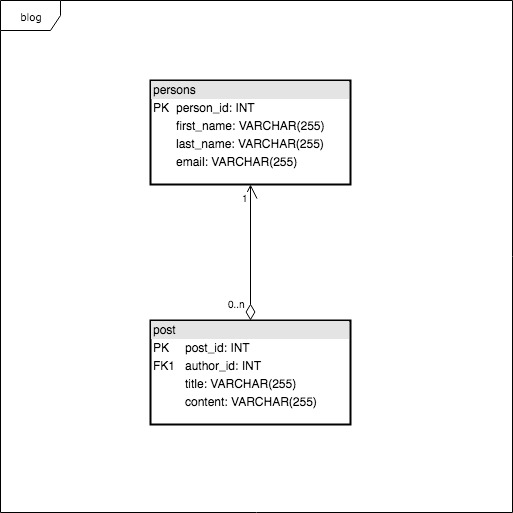
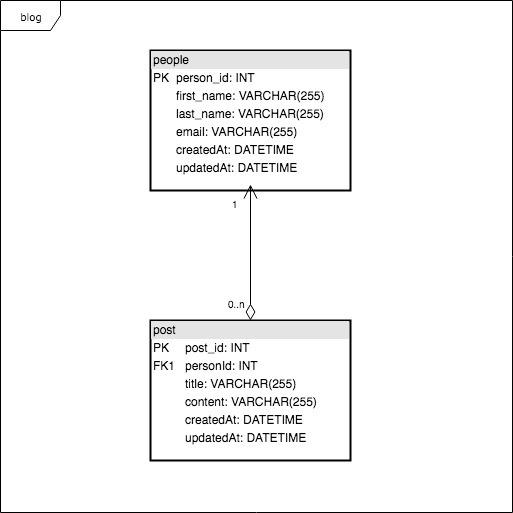
doc: Update blog database UML. db: Rename the persons table to people.

diff --git a/README.md b/README.md
@@ -16,6 +16,6 @@ We will use:
 + ~[Creating a GraphQL server with Node.js and Express.js](https://medium.com/codingthesmartway-com-blog/creating-a-graphql-server-with-node-js-and-express-f6dddc5320e1) Done~
 + [Scaffolding a NodeJS GraphQL API server](https://medium.com/@tomlagier/scaffolding-a-rock-solid-graphql-api-b651c2a36438)
 
-## Refs: GraphQL example wit databases
+## Refs: GraphQL example with databases
 + [Repo: GraphQL with sequelize to integrate with relational database](https://github.com/leebenson/graphql-with-sequelize)
 + [Video: GraphQL with sequelize to integrate with relational database](https://www.youtube.com/watch?v=DNPVqK_woRQ)

diff --git a/sql/README.md b/sql/README.md
@@ -78,10 +78,10 @@ IGNORE 1 ROWS;
 
 ## Blog Database Queries
 
-Query to create the `persons` table:
+Query to create the `people` table:
 
 ```sql
-CREATE TABLE IF NOT EXISTS persons (
+CREATE TABLE IF NOT EXISTS people (
     person_id INT AUTO_INCREMENT PRIMARY KEY,
     first_name VARCHAR(255) NOT NULL,
     last_name VARCHAR(255) NOT NULL,
